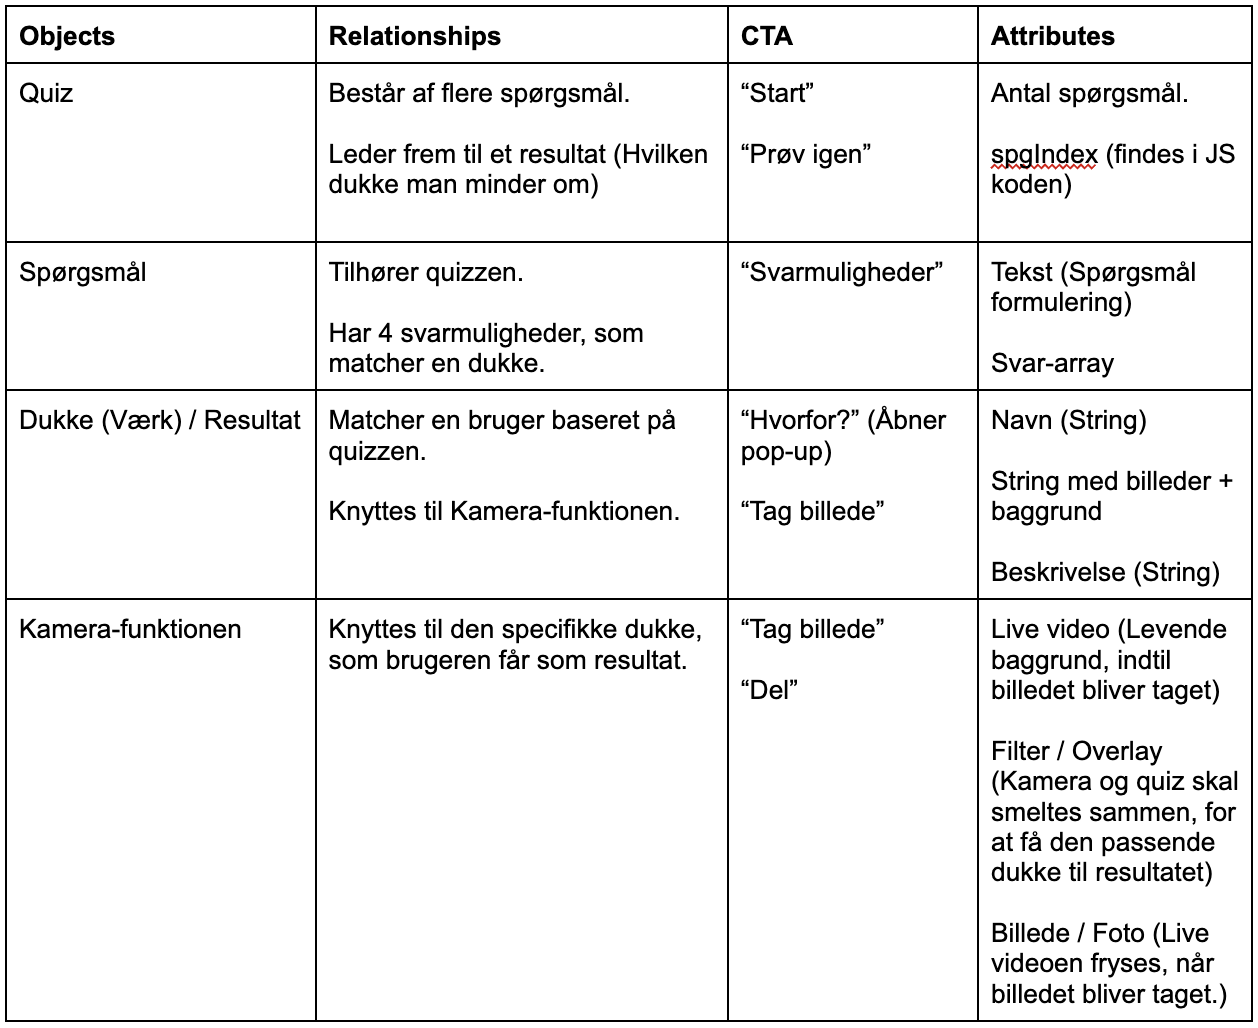
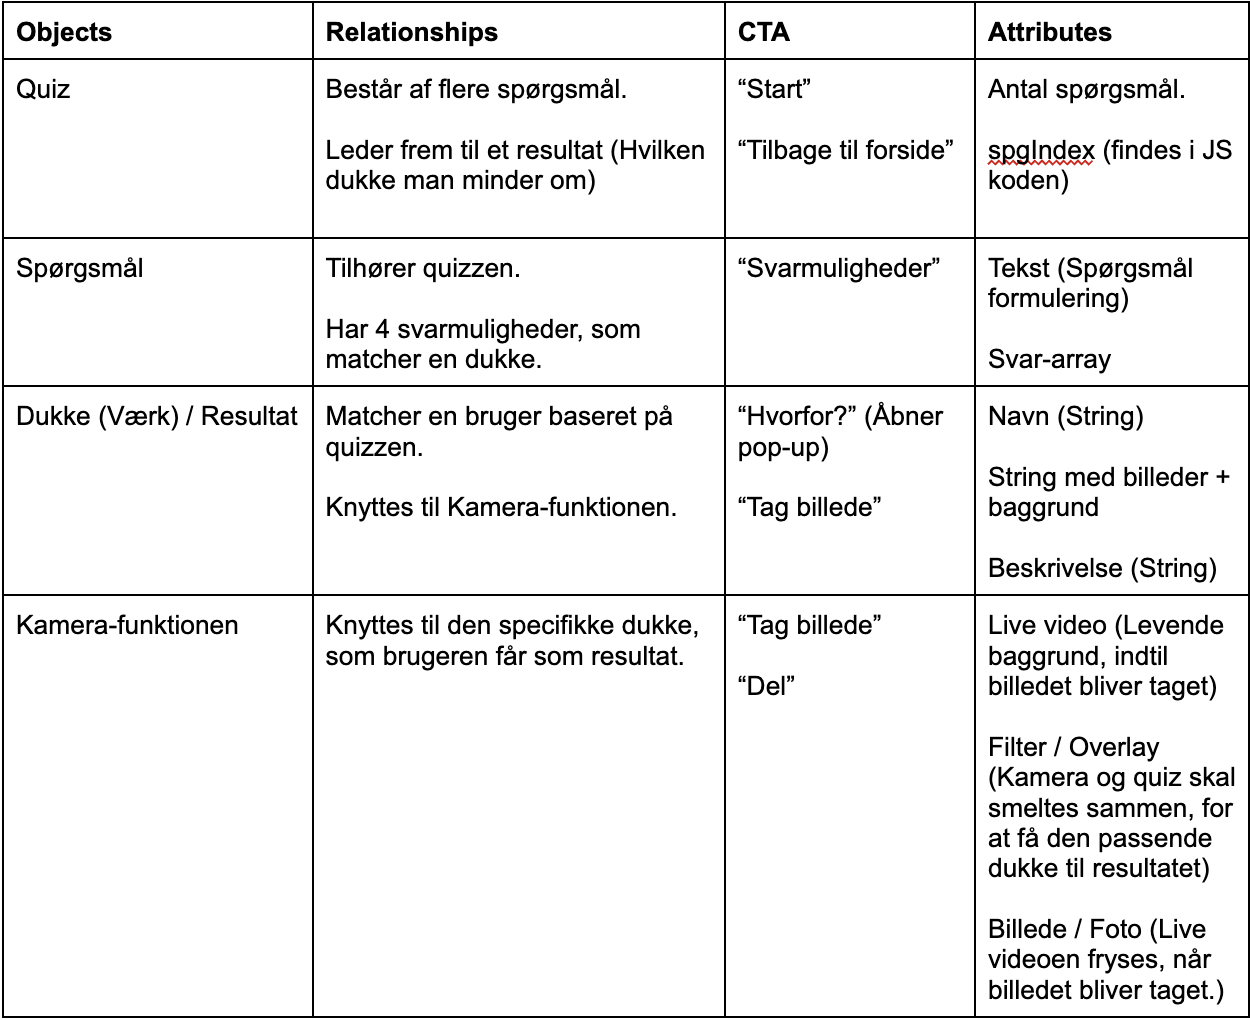
Ændret README
- Rettet tastefejl og fejl formulering
- Rettelser i CSS, brugt store bogstaver

Changed region(s): [[0.0, 0.0, 1.0, 1.0], [0.4056, 0.4863, 0.5304, 0.5167], [0.2496, 0.4863, 0.3432, 0.5167]]

diff --git a/css/engelsk.css b/css/engelsk.css
@@ -694,7 +694,7 @@ h1 {
   border-radius: 30px;
   box-sizing: border-box;
   background: #91a6b9;
-  font-family: Yrsa, serif;
+  font-family: yrsa, serif;
   font-size: 20px;
   color: #345a7c;
   outline: none;
@@ -703,7 +703,7 @@ h1 {
 
 .phone-input::placeholder {
   color: #fff;
-  font-family: Yrsa, sans-serif;
+  font-family: yrsa, sans-serif;
 }
 
 .sharing-button {

diff --git a/css/style.css b/css/style.css
@@ -694,7 +694,7 @@ h1 {
   border-radius: 30px;
   box-sizing: border-box;
   background: #91a6b9;
-  font-family: Yrsa, serif;
+  font-family: yrsa, serif;
   font-size: 20px;
   color: #345a7c;
   outline: none;
@@ -703,7 +703,7 @@ h1 {
 
 .telefon-input::placeholder {
   color: #fff;
-  font-family: Yrsa, sans-serif;
+  font-family: yrsa, sans-serif;
 }
 
 .deling-knap {

diff --git a/index.html b/index.html
@@ -150,9 +150,11 @@
                 class="telefon-input"
                 placeholder="Indtast telefonnummer...">
                 
+
               <button id="delingKnap" type="button" class="deling-knap">
                 <img src="img/del.png" alt="Del" class="deling-ikon">
               </button>
+
             </div>
           </div>
 

diff --git a/engelsk.html b/engelsk.html
@@ -159,7 +159,7 @@
                 class="phone-input"
                 placeholder="Enter phone number..."
               />
-
+            
               <button id="sharingButton" type="button" class="sharing-button">
                 <img src="img/del.png" alt="Share" class="sharing-icon" />
               </button>

diff --git a/README.md b/README.md
@@ -17,8 +17,8 @@ Projektet følger den standarde mappe-struktur, for at gøre projektet og koden 
 ![Mappe-struktur](/img/mappe-struktur.png)
 
 ### Navngivning af mapper, filer og class'
-* **Filer og mapper:** Navngivet med udelukkende små, engelske bogstaver uden specialtegn (æ, ø, å) for at undgå scannings-fejl.
-* **HTML/CSS:** Vi har anvendt kebab-case (f.eks. `#kamera-skaerm`) konsekvent til klasser og ID'er.
+* **Filer og mapper:** Navngivet med udelukkende små bogstaver uden specialtegn (æ, ø, å) for at undgå scannings-fejl.
+* **HTML/CSS:** Vi har anvendt kebab-case og camelCase (f.eks. `#kamera-skaerm` & `tagetBillede`) konsekvent til klasser og ID'er.
 * **JavaScript:** Vi har anvendt camelCase konsekvent til variabler og funktioner (f.eks. `let spgIndex`, `function startQuiz()`). Navnene er holdt semantiske og beskrivende, så koden er let at læse.
 
 ---
@@ -96,7 +96,7 @@ Dette er den CSS-kode, vi tænder og slukker for via JavaScript, når brugeren t
   display: flex;
 }
 ```
-* Ved at bruge `display: none` som standard, er alle vores 5-6 skærm-sektioner usynlige i starten. Først når vi tilføjer klassen `.aktiv`, dukker skærmen op.
+* Ved at bruge `display: none` som standard, er alle vores 5 skærm-sektioner usynlige i starten. Først når vi tilføjer klassen `.aktiv`, dukker skærmen op.
 
 ### 3. Kommentarer i koden (HTML, CSS & JS)
 Vi har gjort meget ud af at lave kommentarer i alle vores filer. (<!- --> i HTML, /* */ i CSS & // i JS)
